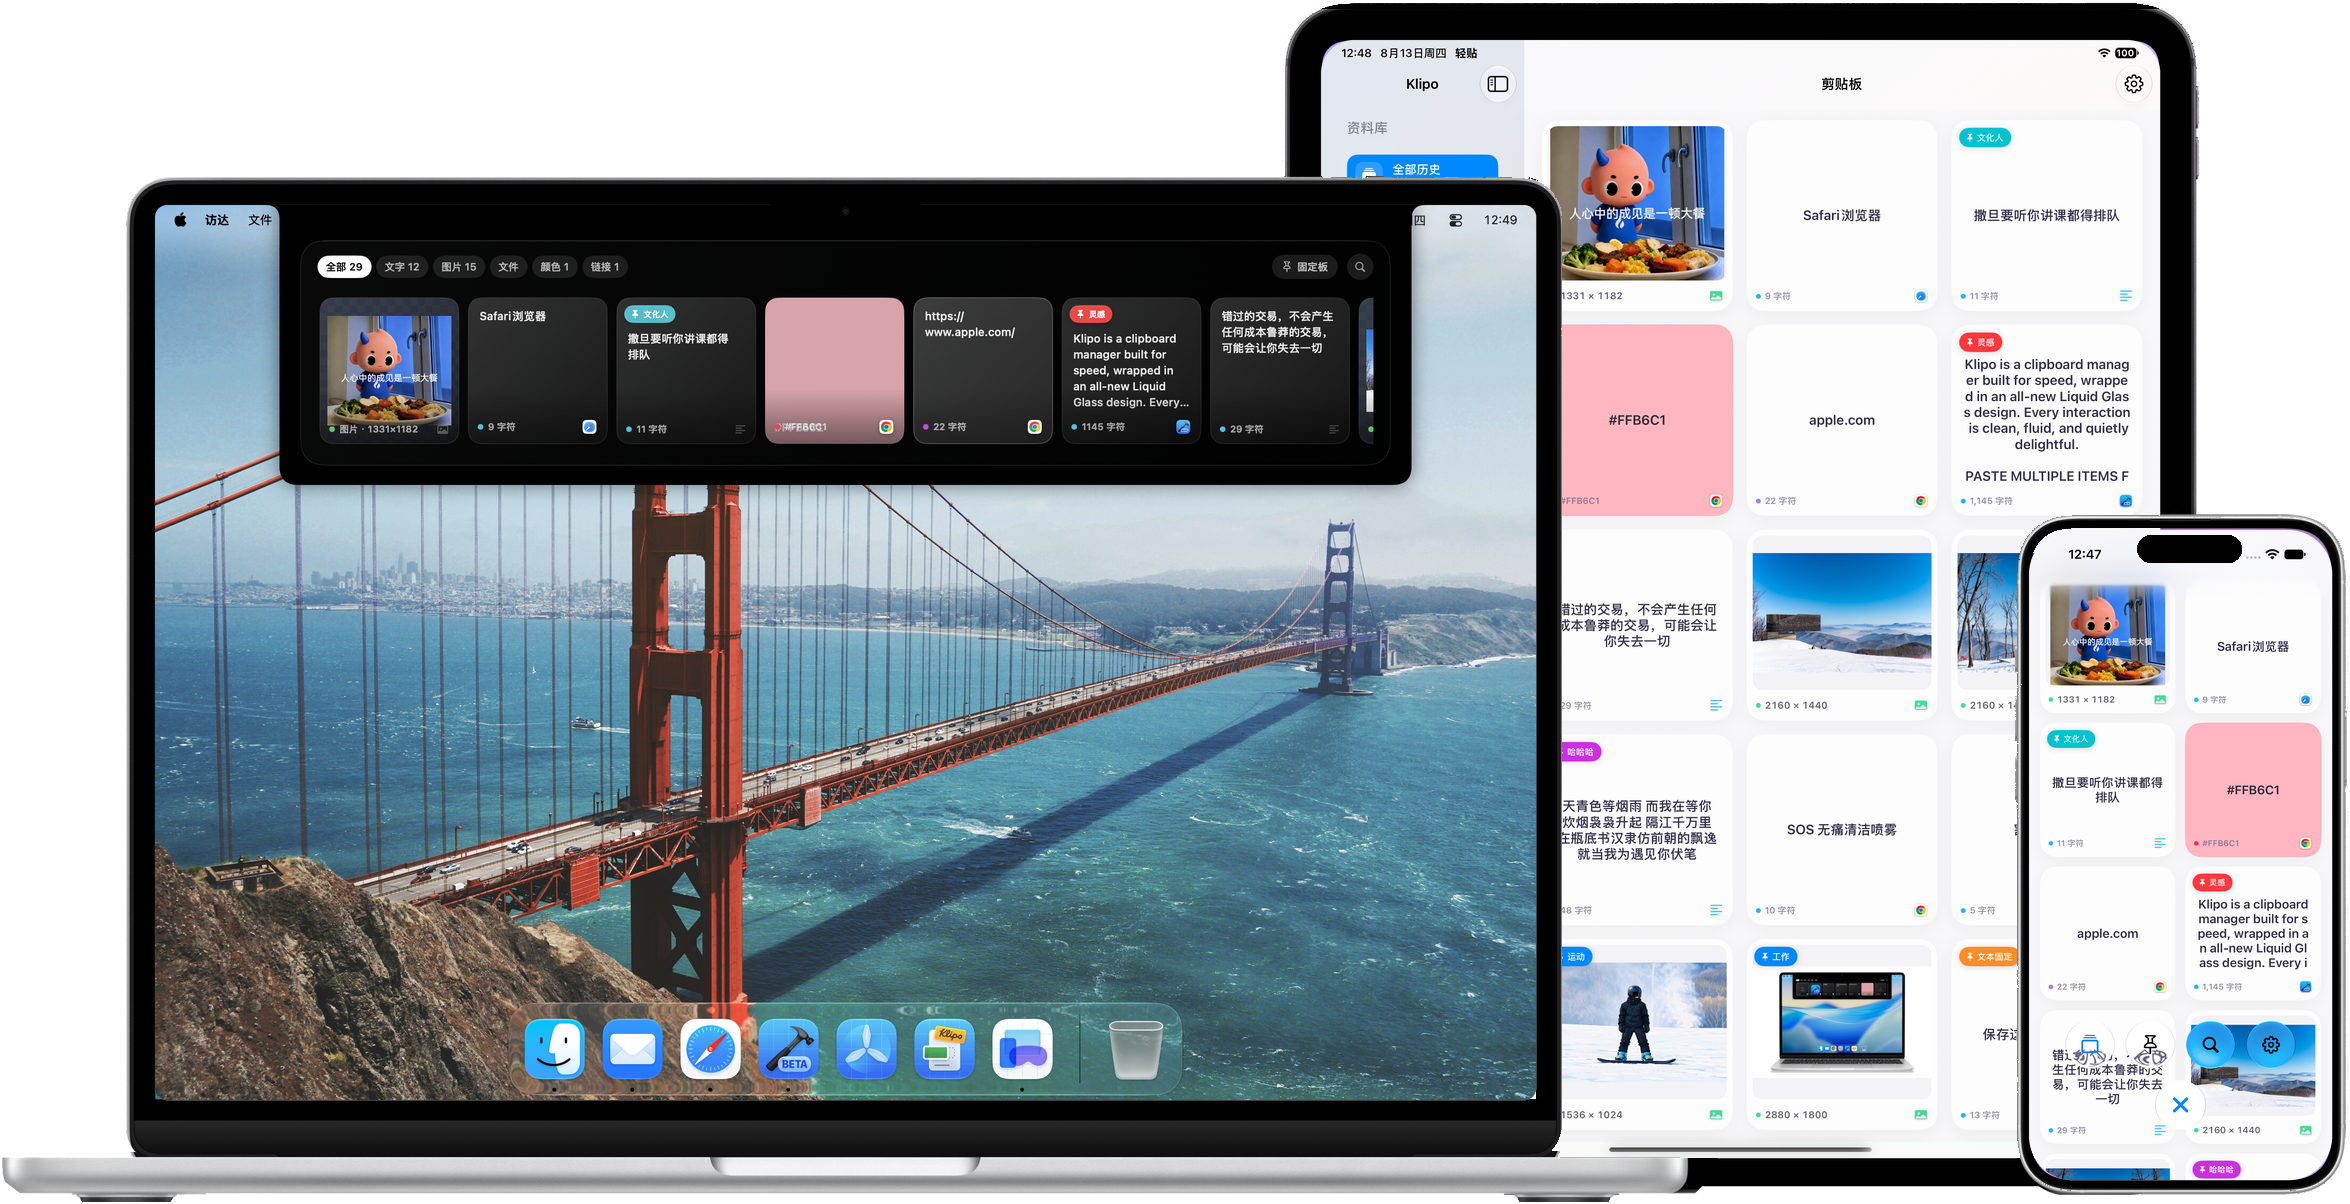
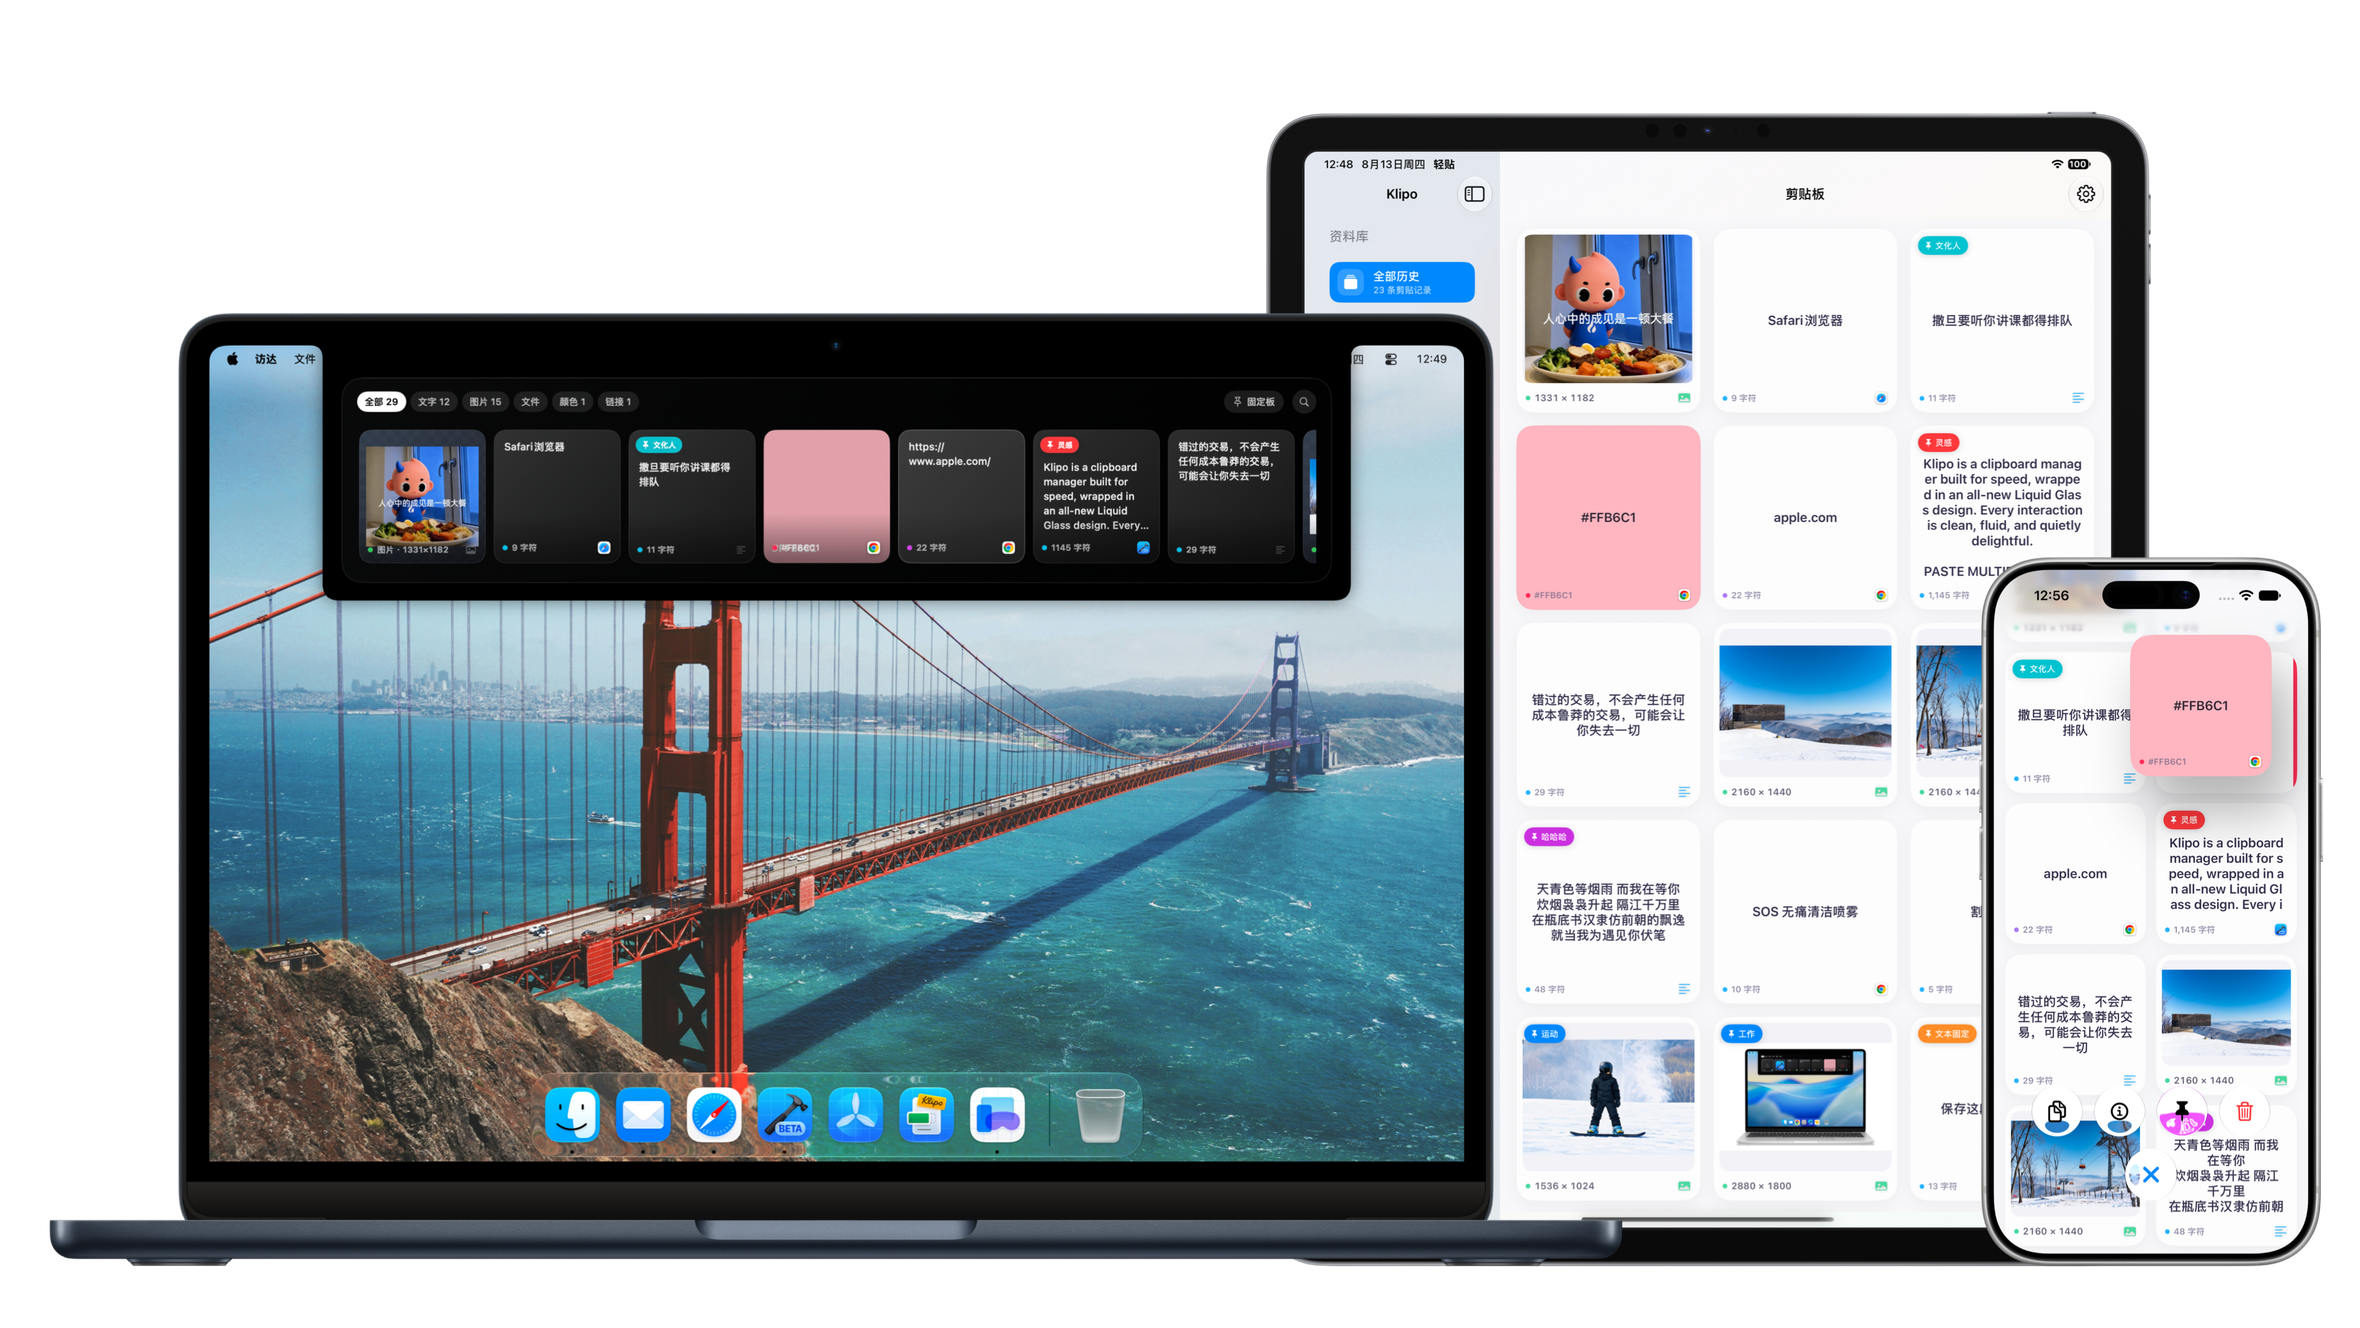
更新首页跨设备主视觉

diff --git a/index.html b/index.html
@@ -67,8 +67,8 @@
         </div>
         <figure class="hero-shot reveal">
           <picture>
-            <source srcset="assets/hero-devices.webp?v=20260813" type="image/webp">
-            <img src="assets/hero-devices.png?v=20260813" alt="Klipo 在 Mac、iPad 与 iPhone 上的界面" width="2350" height="1204" loading="eager" fetchpriority="high">
+            <source srcset="assets/hero-devices.webp?v=20260813-2" type="image/webp">
+            <img src="assets/hero-devices.png?v=20260813-2" alt="Klipo 在 Mac、iPad 与 iPhone 上的界面" width="2360" height="1328" loading="eager" fetchpriority="high">
           </picture>
         </figure>
       </div>
